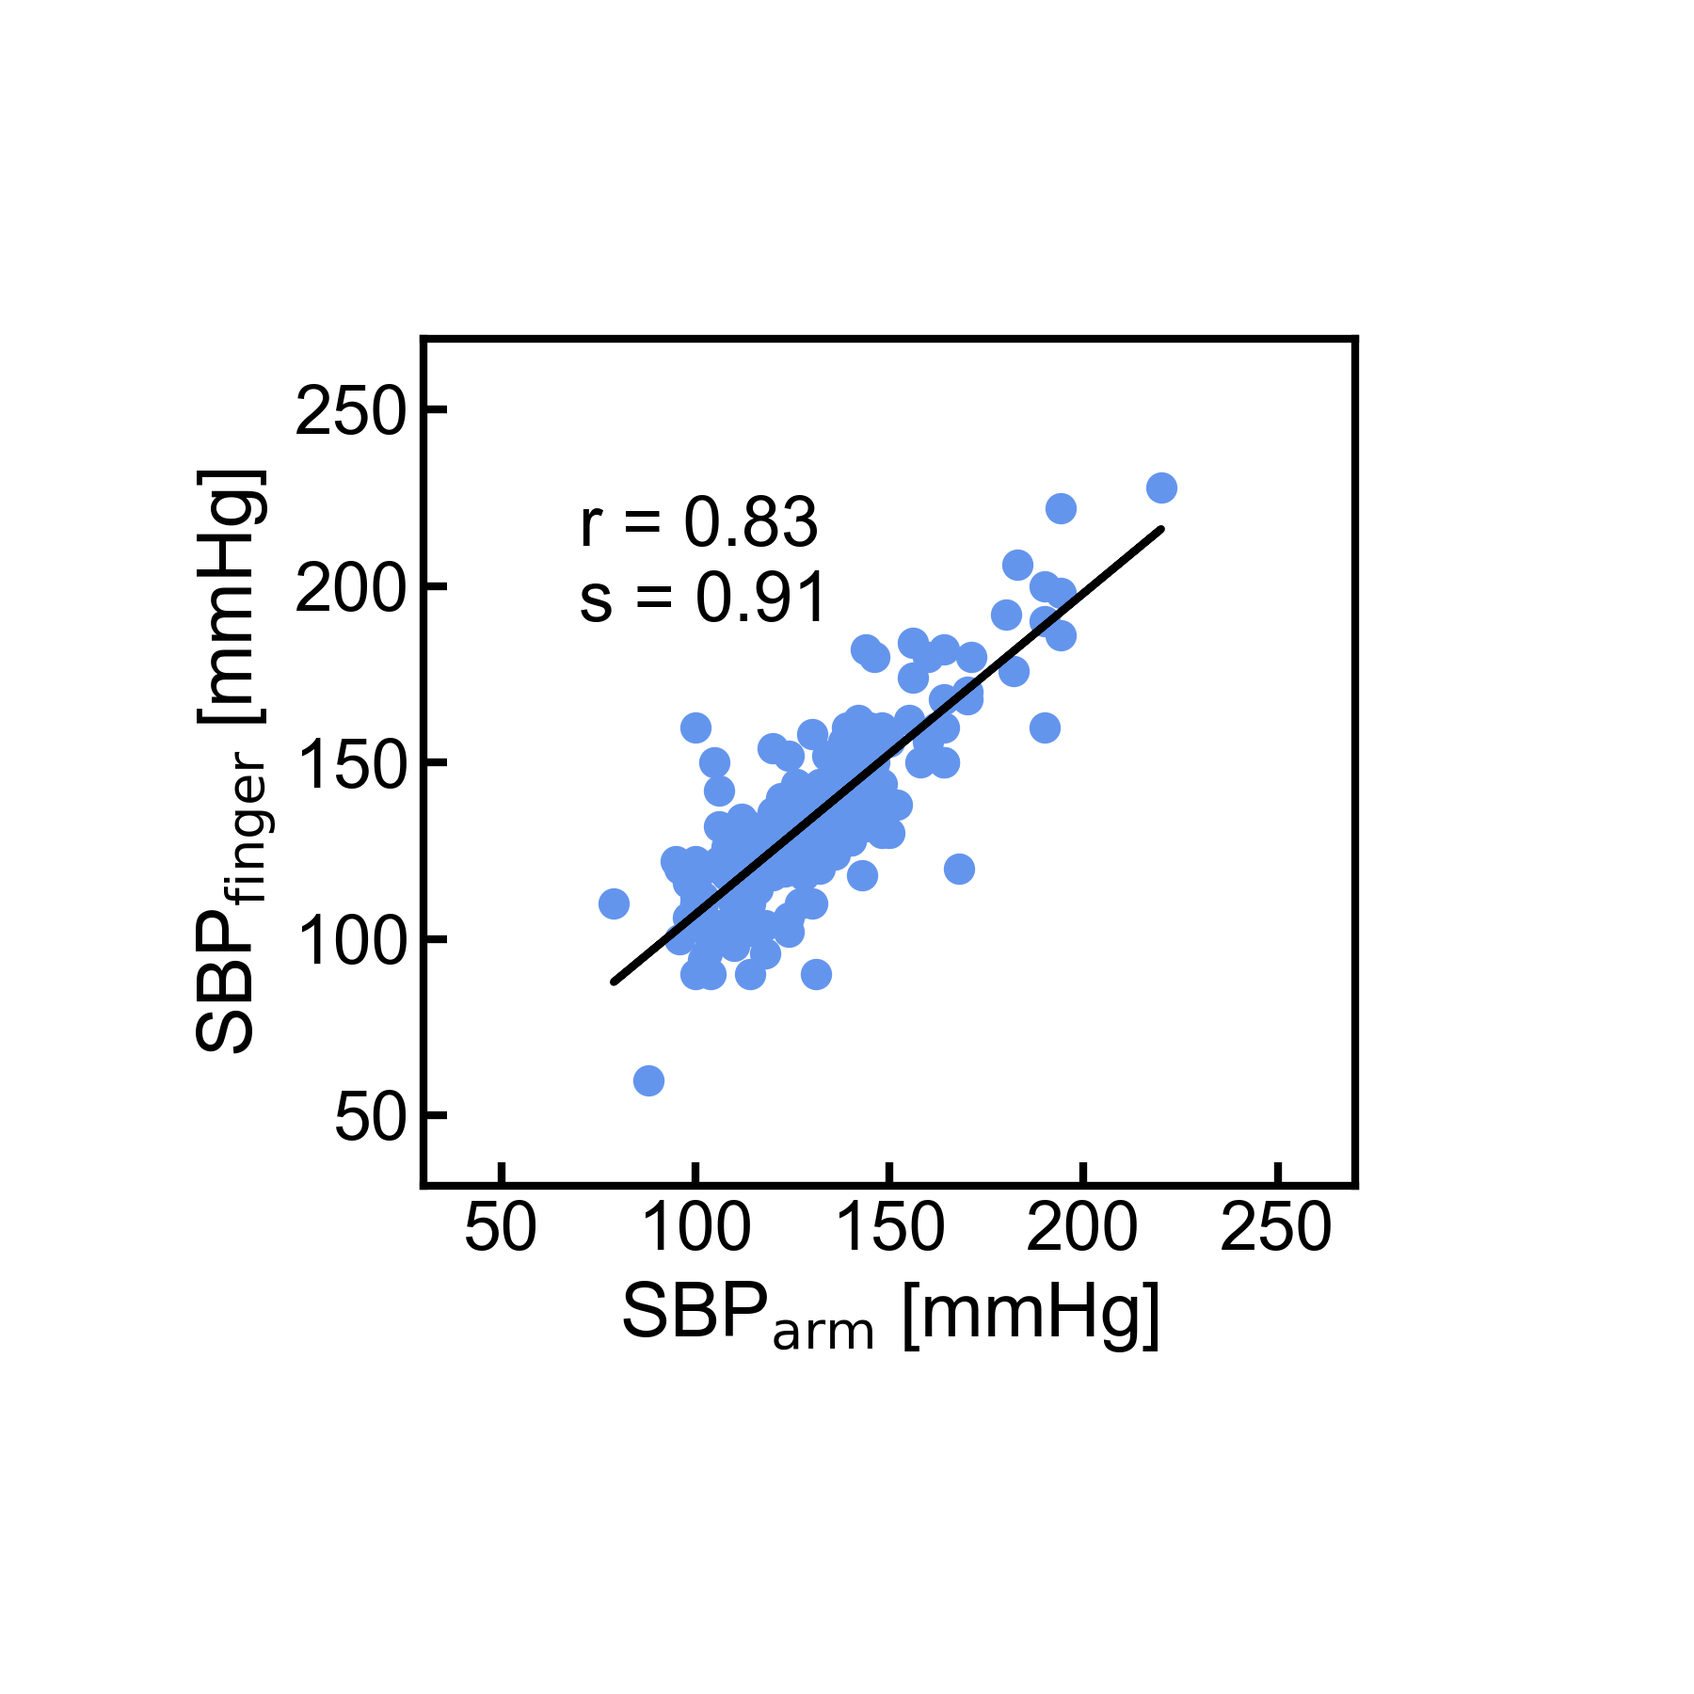
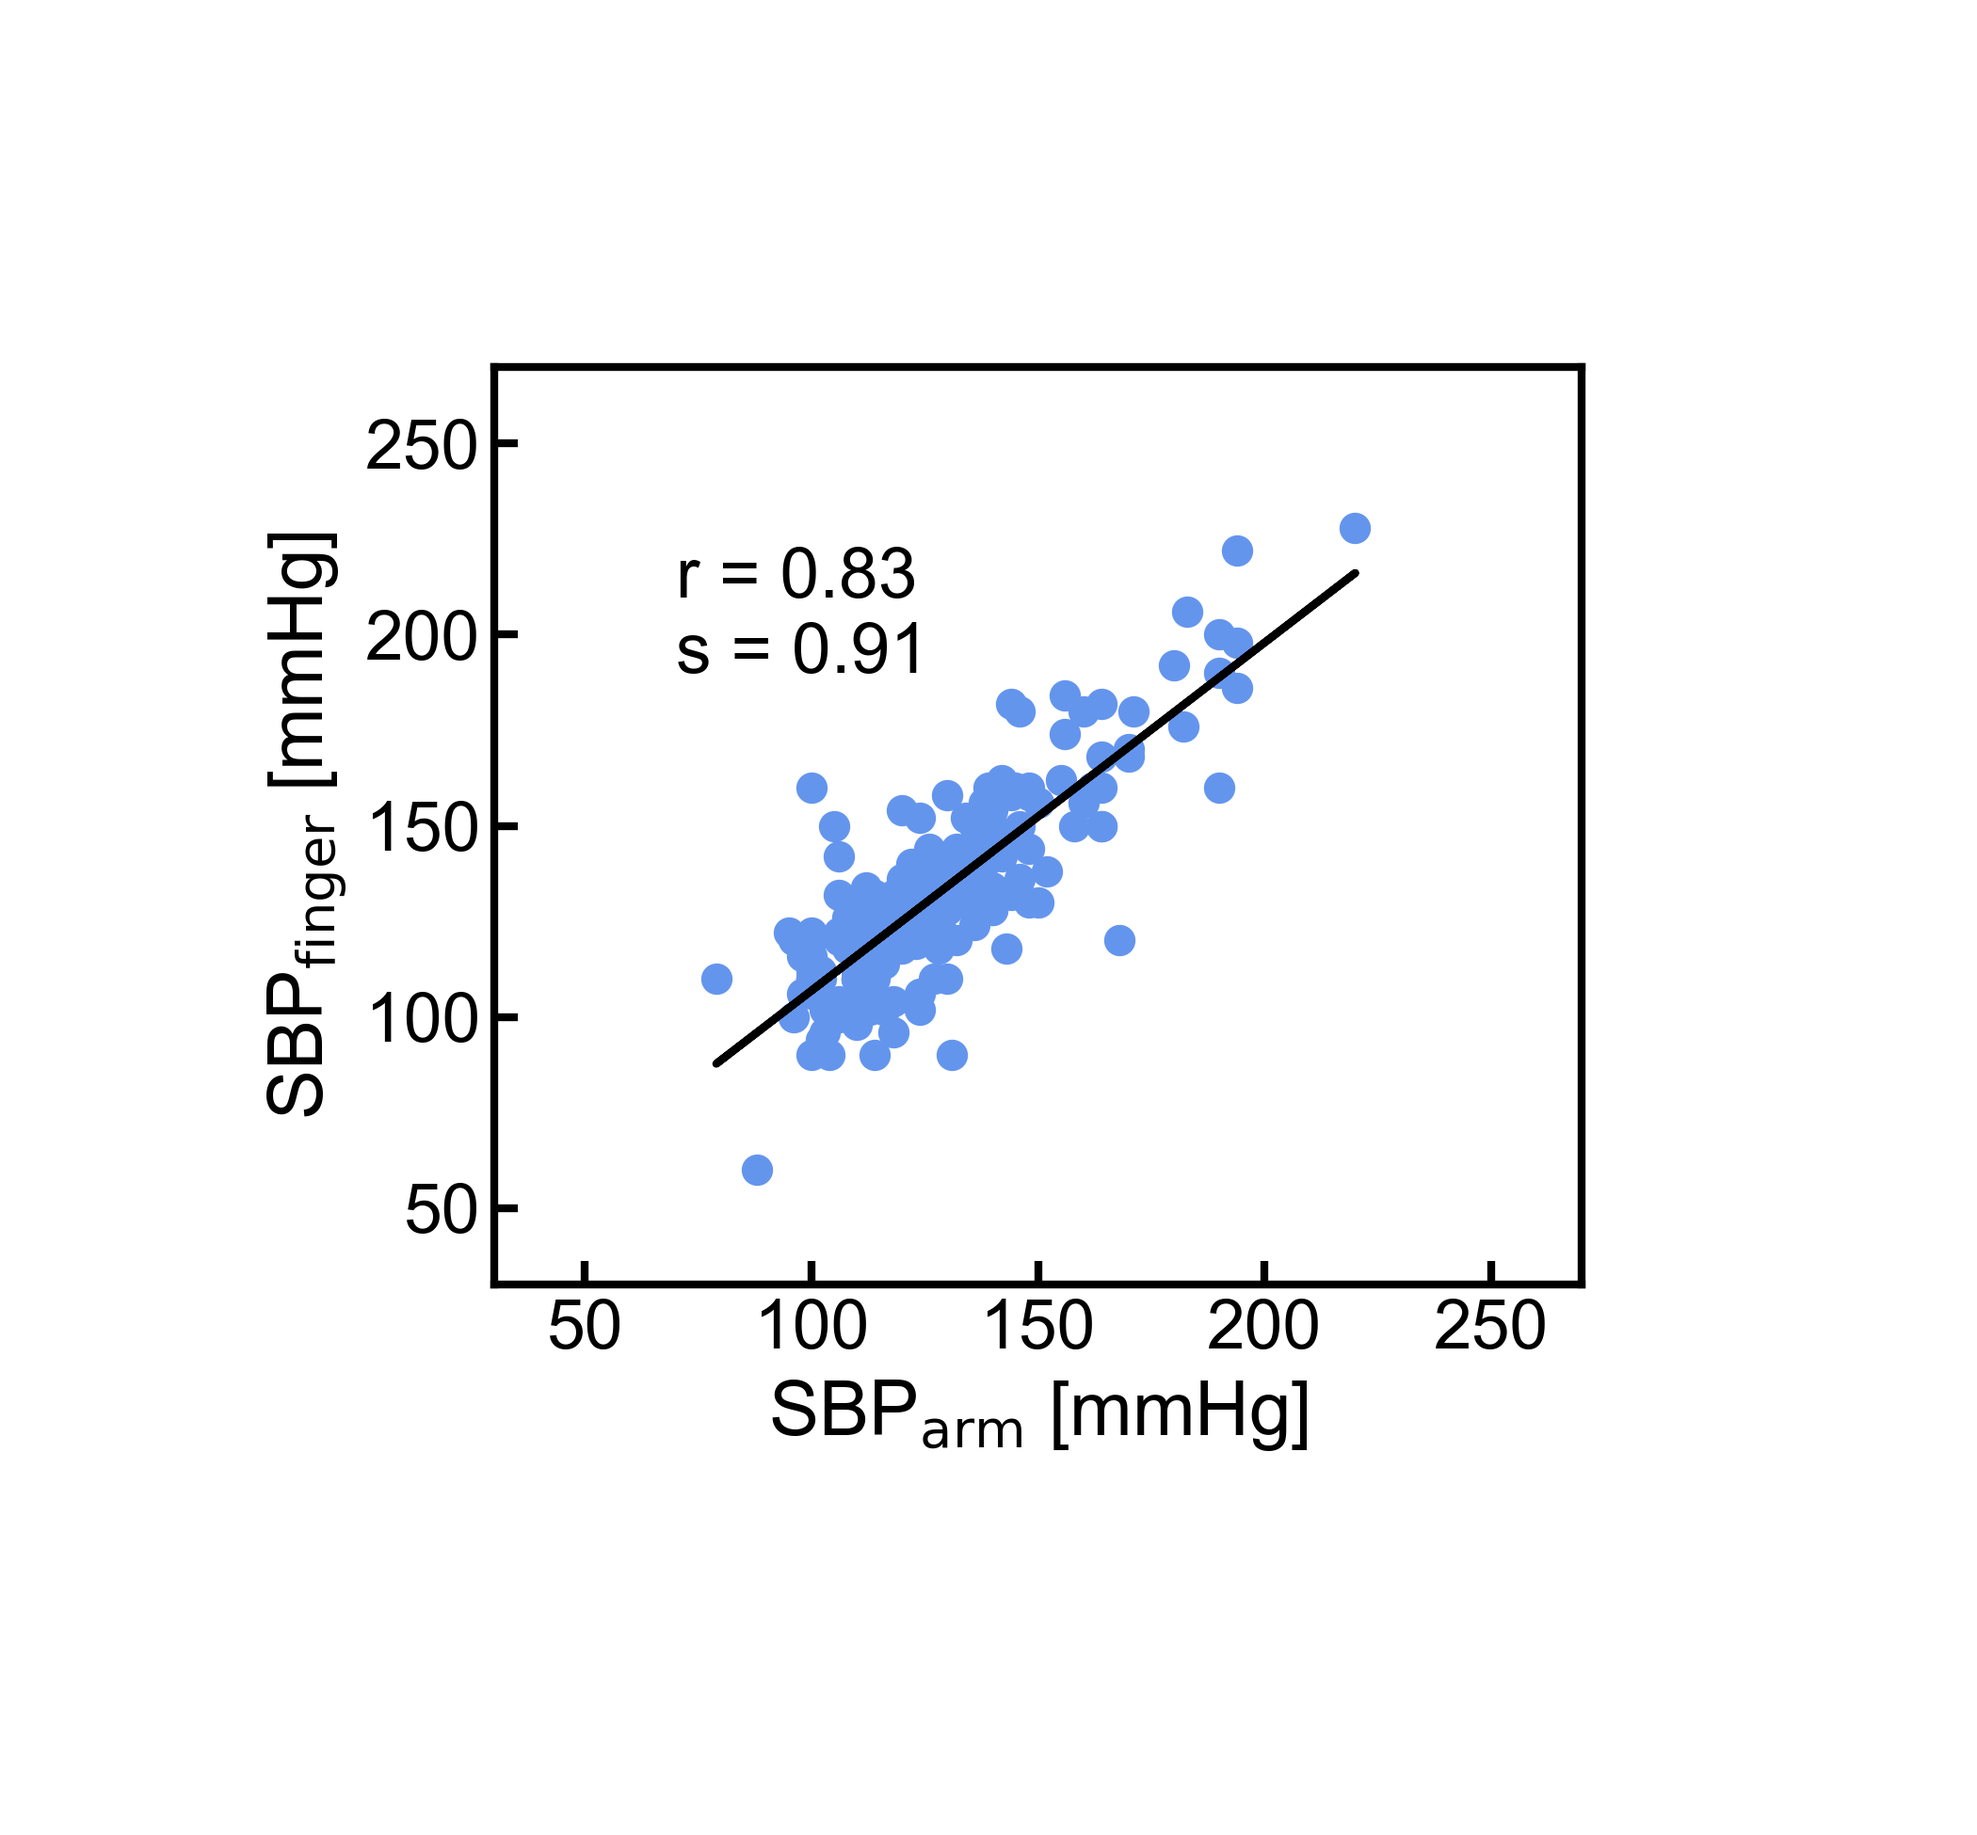
Abstraction upgrades.

diff --git a/correlation_plot.py b/correlation_plot.py
@@ -31,7 +31,7 @@ def generate_plot(measure1,
 
     with plt.rc_context({'axes.edgecolor': 'black'}):
 
-        fig, ax = plt.subplots(figsize=(6, 6))
+        fig, ax = plt.subplots(figsize=(7, 6.5))
 
         # correlation plot
         # generate basic scatterplot
@@ -100,13 +100,9 @@ if __name__ == '__main__':
     EXAMPLE_DATA_PATH = r'.\systolic blood pressure.csv'
     example_data_df = pd.read_csv(EXAMPLE_DATA_PATH)
 
-    # --- variables setup ---
-    m1_array = example_data_df.iloc[:, 0].to_numpy()
-    m2_array = example_data_df.iloc[:, 1].to_numpy()
-
     # --- plot data ---
-    generate_plot(m1_array,
-                  m2_array,
+    generate_plot(example_data_df.iloc[:, 0].to_numpy(),
+                  example_data_df.iloc[:, 1].to_numpy(),
                   [50, 250],
                   [50, 250],
                   independent_variable_label=r'SBP$_{\rm arm}$ $\mathregular{[mmHg]}$',

diff --git a/LICENSE.md b/LICENSE.md
@@ -1,0 +1,22 @@
+
+The MIT License (MIT)
+
+Copyright (c) 2026 Charles Belanger Nzakimuena
+
+Permission is hereby granted, free of charge, to any person obtaining a copy
+of this software and associated documentation files (the "Software"), to deal
+in the Software without restriction, including without limitation the rights
+to use, copy, modify, merge, publish, distribute, sublicense, and/or sell
+copies of the Software, and to permit persons to whom the Software is
+furnished to do so, subject to the following conditions:
+
+The above copyright notice and this permission notice shall be included in all
+copies or substantial portions of the Software.
+
+THE SOFTWARE IS PROVIDED "AS IS", WITHOUT WARRANTY OF ANY KIND, EXPRESS OR
+IMPLIED, INCLUDING BUT NOT LIMITED TO THE WARRANTIES OF MERCHANTABILITY,
+FITNESS FOR A PARTICULAR PURPOSE AND NONINFRINGEMENT. IN NO EVENT SHALL THE
+AUTHORS OR COPYRIGHT HOLDERS BE LIABLE FOR ANY CLAIM, DAMAGES OR OTHER
+LIABILITY, WHETHER IN AN ACTION OF CONTRACT, TORT OR OTHERWISE, ARISING FROM,
+OUT OF OR IN CONNECTION WITH THE SOFTWARE OR THE USE OR OTHER DEALINGS IN THE
+SOFTWARE.
